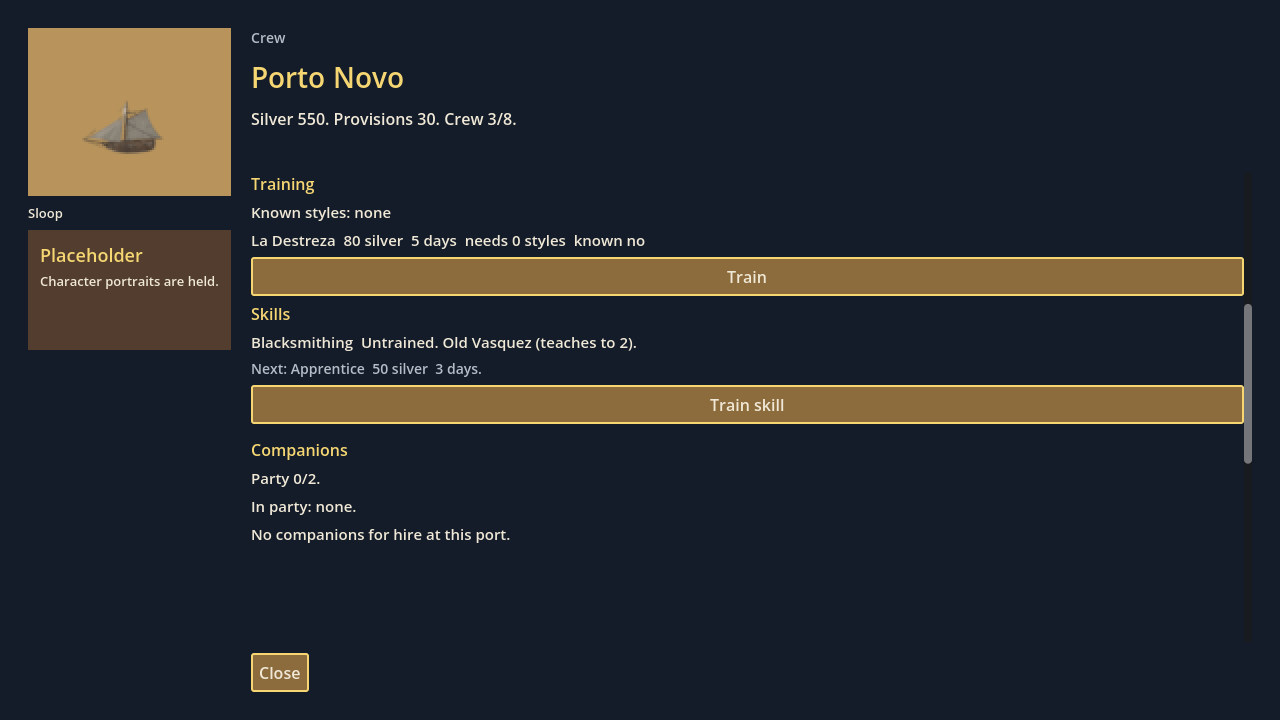
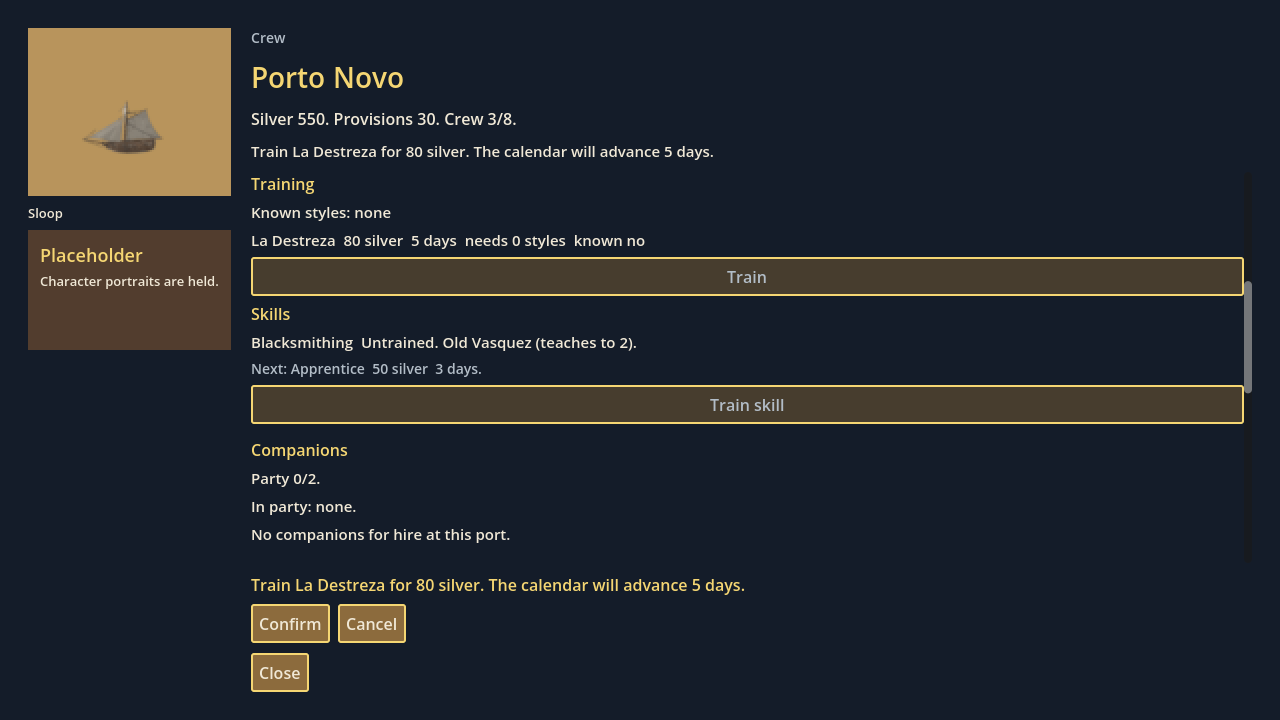
Show the day-advance warning on the crew training frame.
The training capture arms La Destreza before the shot so the notice bar
reads that the calendar will advance 5 days, fully inside the window.
Roster and companions stay on the idle desk.

diff --git a/crates/portlight-godot/src/game.rs b/crates/portlight-godot/src/game.rs
@@ -331,10 +331,14 @@ impl ContractsShot {
     }
 }
 
-#[derive(Clone, Copy)]
+#[derive(Clone, Copy, PartialEq, Eq)]
 enum CrewShot {
     Roster,
+    /// Layout pass after the train confirm is armed. Not a saved frame.
+    PrepareTraining,
     Training,
+    /// Layout pass after the confirm is cleared. Not a saved frame.
+    PrepareCompanions,
     Companions,
 }
 
@@ -342,16 +346,20 @@ impl CrewShot {
     fn file_name(self) -> &'static str {
         match self {
             Self::Roster => "crew-roster.png",
-            Self::Training => "crew-training.png",
-            Self::Companions => "crew-companions.png",
+            Self::PrepareTraining | Self::Training => "crew-training.png",
+            Self::PrepareCompanions | Self::Companions => "crew-companions.png",
         }
+    }
+
+    fn saves(self) -> bool {
+        matches!(self, Self::Roster | Self::Training | Self::Companions)
     }
 
     fn section(self) -> &'static str {
         match self {
             Self::Roster => crew_screen::SECTION_ROSTER,
-            Self::Training => crew_screen::SECTION_TRAINING,
-            Self::Companions => crew_screen::SECTION_COMPANIONS,
+            Self::PrepareTraining | Self::Training => crew_screen::SECTION_TRAINING,
+            Self::PrepareCompanions | Self::Companions => crew_screen::SECTION_COMPANIONS,
         }
     }
 }
@@ -4589,6 +4597,17 @@ impl PortlightGame {
         let Some(dir) = self.crew_shot_dir.clone() else {
             return false;
         };
+        // Rebuilding the body invalidates section positions until the next
+        // layout. Prepare phases only scroll, after that layout has run.
+        if !phase.saves() {
+            self.scroll_crew_section(phase.section());
+            self.crew_shot = Some(match phase {
+                CrewShot::PrepareTraining => CrewShot::Training,
+                _ => CrewShot::Companions,
+            });
+            self.capture_frames = 4;
+            return true;
+        }
         if !self.crew_section_at_top(phase.section()) {
             self.capture_failed = true;
             godot_print!(
@@ -4596,29 +4615,81 @@ impl PortlightGame {
                 phase.file_name()
             );
         }
+        if phase == CrewShot::Training && !self.training_warning_visible() {
+            self.capture_failed = true;
+        }
         let path = format!("{dir}/{}", phase.file_name());
         if !self.save_shot(&path, true) {
             self.capture_failed = true;
         }
-        match phase {
-            CrewShot::Roster => {
-                self.scroll_crew_section(crew_screen::SECTION_TRAINING);
-                self.crew_shot = Some(CrewShot::Training);
-                self.capture_frames = 4;
-                true
-            }
-            CrewShot::Training => {
-                self.scroll_crew_section(crew_screen::SECTION_COMPANIONS);
-                self.crew_shot = Some(CrewShot::Companions);
-                self.capture_frames = 4;
-                true
-            }
-            CrewShot::Companions => {
-                self.crew_shot = None;
-                self.run_crew_actions();
-                false
-            }
+        if phase == CrewShot::Roster {
+            // The roster frame stays on the idle desk. Arming rebuilds
+            // the body, so the scroll waits until PrepareTraining.
+            self.arm_train("la_destreza");
+            self.crew_shot = Some(CrewShot::PrepareTraining);
+            self.capture_frames = 4;
+            return true;
         }
+        if phase == CrewShot::Training {
+            // Drop the confirm without writing "Cancelled." Companions
+            // is the idle desk again, and the action pass arms its own.
+            self.crew_pending = None;
+            self.crew_notice.clear();
+            self.refresh();
+            self.crew_shot = Some(CrewShot::PrepareCompanions);
+            self.capture_frames = 4;
+            return true;
+        }
+        self.crew_shot = None;
+        self.run_crew_actions();
+        false
+    }
+
+    /// The training frame has to show the day-advance line in the notice bar,
+    /// fully inside the window, with every wrapped line tall enough to read.
+    fn training_warning_visible(&mut self) -> bool {
+        let Some(nodes) = self.crew_nodes.clone() else {
+            godot_print!("Crew smoke: no crew desk for the training warning.");
+            return false;
+        };
+        let text = nodes.notice.get_text().to_string();
+        if !text.contains("advance") || !text.contains("days") {
+            godot_print!("Crew smoke: notice bar missing the day-advance warning: {text:?}");
+            return false;
+        }
+        if !nodes.confirm.is_visible() {
+            godot_print!("Crew smoke: the train confirm was hidden.");
+            return false;
+        }
+        let notice_ok = self.warning_label_visible("notice", &nodes.notice);
+        let confirm_ok = self.warning_label_visible("confirm", &nodes.confirm_label);
+        notice_ok && confirm_ok
+    }
+
+    fn warning_label_visible(&mut self, kind: &str, label: &Gd<Label>) -> bool {
+        let text = label.get_text().to_string();
+        let rect = label.get_global_rect();
+        let pos = rect.position;
+        let size = rect.size;
+        let inside = pos.x >= -0.5
+            && pos.y >= -0.5
+            && pos.x + size.x <= WINDOW_W + 0.5
+            && pos.y + size.y <= WINDOW_H + 0.5;
+        let lines = label.get_line_count();
+        let line_h = label.get_line_height();
+        let covered = lines >= 1 && line_h > 0 && size.y + 1.0 >= (lines * line_h) as f32;
+        let visible_lines = label.get_visible_line_count();
+        if !text.contains("advance") || !inside || !covered || visible_lines < lines {
+            godot_print!(
+                "Crew smoke: {kind} warning clipped text={text:?} pos=({}, {}) size=({}, {}) lines={lines} visible={visible_lines} line_h={line_h}",
+                pos.x,
+                pos.y,
+                size.x,
+                size.y,
+                );
+            return false;
+        }
+        true
     }
 
     fn scroll_crew_section(&mut self, name: &str) {
